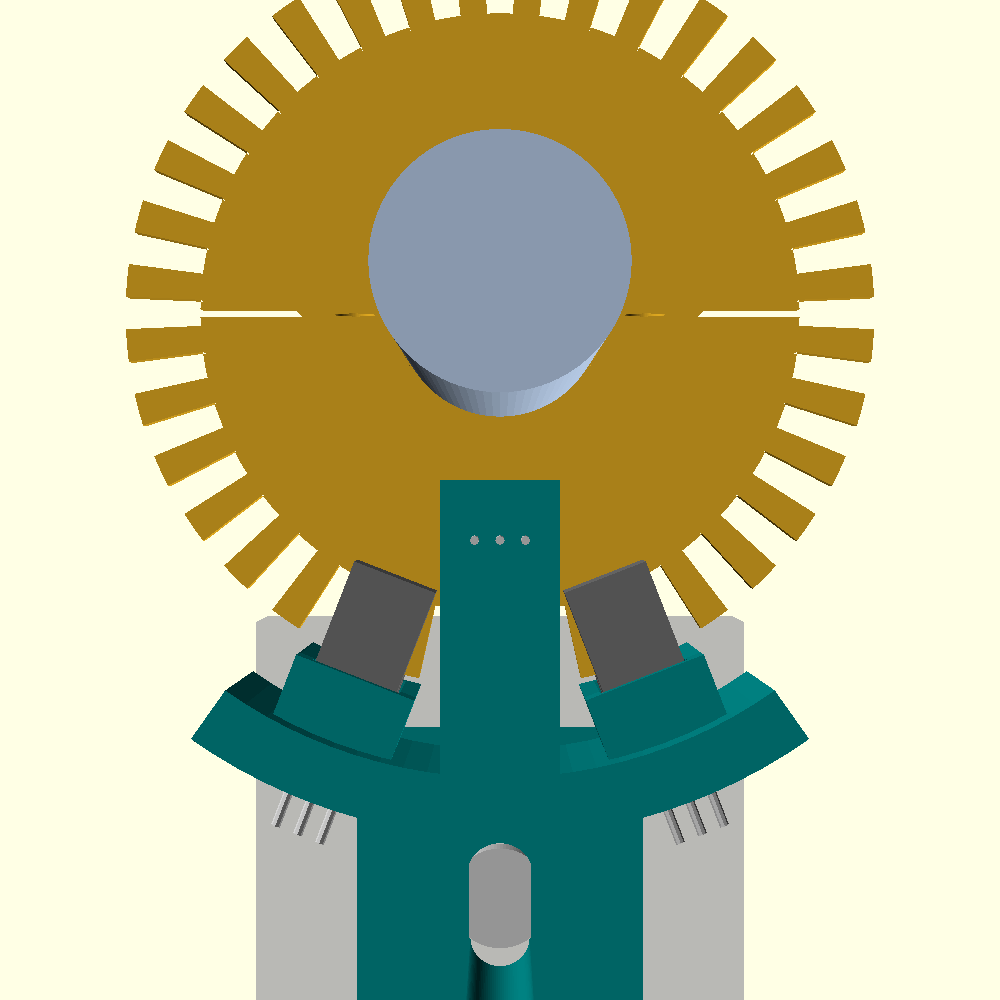
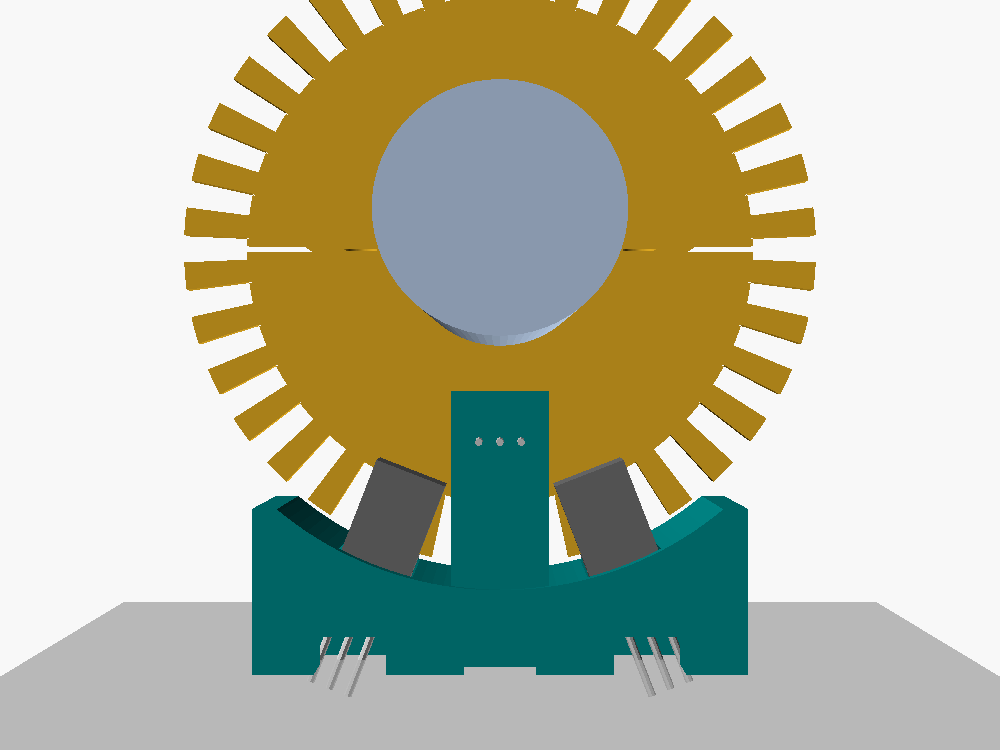
Encoder: replace the bracket with a saddle on the casting floor
The 158 has about 20 mm under the shaft and the ring's teeth come within
~6 mm of the floor, so nothing can hang below it. The new saddle part sits
on the floor: its top an arc 1 mm outside the tooth tips, the forks in
pockets with their bodies sunk in, a finger for the Hall switch, and lead
channels in the underside. Set by eye with the ring turning, then glued at
its edges (or taped: mount_gap). Height from axis_h (26.1 mm); ribs and
the spring cut out with keepouts once measured. Views regenerated.

Claude-Session: https://claude.ai/code/session_01D8rC2JDyb9T3n3ujD2pgX4

diff --git a/hardware/encoder/README.md b/hardware/encoder/README.md
@@ -11,11 +11,13 @@ the casting floor, measured with the gauge below and confirmed with
 calipers, which puts the axis about 26.1 mm up. The
 measurements behind it are about 5–10 mm of clear shaft at the candidate
 spots, with room for a ring of up to about 40 mm diameter (50 mm in places).
-`optical_encoder_concept.scad` models it. Its parts are `assembly`,
-`exploded`, and the two printed parts, `ring_half` and `bracket`.
+`optical_encoder_concept.scad` models it. Its parts are `assembly` and
+`exploded`, and the printed parts: `ring_half` and `ring_half_bottom`, the
+`insert_cradle` for pressing in the inserts, and the `saddle` that carries
+the forks.
 
-![In place: the slotted ring on the shaft, the two forks below it, the
-bracket and its anchor](enc_iso.png)
+![In place: the slotted ring on the shaft, and the two forks and the Hall
+switch in the saddle on the casting floor below it](enc_iso.png)
 
 ## How it works
 
@@ -38,26 +40,48 @@ both gives four counts per slot, **144 counts a turn, 2.5° each**. A
 
 **The index** comes from a Hall switch working alongside the optics, as Bob suggested, and it works well. One magnet
 sits in a small boss on the disc's face, inside the radius the forks reach,
-and a Hall switch on the bracket reads it once a turn from about a
+and a Hall switch on the saddle reads it once a turn from about a
 millimeter away. Mixing the two technologies has two advantages. The index
 doesn't depend on the optics staying clean. And because the index comes
 round once a turn, the firmware can check that the count is still 144
 since the last index. If it isn't, a fork is fouling or missing edges, and
 the controller can say so instead of stopping in the wrong place.
 
-**The bracket** is a printed arc that sits under the ring. Each fork drops
-into a pocket on the arc's inner face, with its leads passing out through
-the arc. A finger rises beside the disc to carry the Hall switch. An arm
-runs down to a tab with one screw and a vertical slot:
-- sliding the slot sets how deep the forks sit over the teeth;
-- turning the bracket about the screw trims its angle.
+**The saddle** is a low printed block that sits on the casting floor
+under the ring. Under the shaft of a Kenmore 158 there is only about 20 mm,
+and the ring's teeth come within about 6 mm of the floor, so there is no
+room for a bracket hanging from anything. The floor itself is the mount.
 
-The anchor in the model is a stand-in, a face of the casting square to the
-shaft with a tapped hole. On a real machine it would be whatever the casting
-offers.
+- **Its top is an arc** 1 mm outside the tooth tips. At the bottom it is
+  about 5 mm above the floor, and it rises to at most 10 mm at the sides.
+- **The forks sit in pockets** in that arc, at ±21.25° from straight down.
+  Their bodies are sunk in, and their arms stand up round the rim. Each
+  fork's leads go out through a hole under its body, bend toward one end,
+  and leave along a channel in the underside. The model reports the room
+  under the bodies for that bend, about 2.9 mm with the generic fork; it
+  calls it tight below 2 mm.
+- **A finger rises beside the disc** to carry the Hall switch about 1 mm
+  from the magnet, with its own lead groove and channel.
+- **Nothing is screwed.** The ring's position is set by the shaft, so only
+  the saddle's place on the floor needs setting, and that is done by eye.
+  Fit the ring through the forks, and turn it by hand. Slide the saddle
+  until the disc runs centred in both forks' slots all the way round. Then
+  fix the saddle with beads of hot glue or RTV along its edges, which peel
+  off later. Foam tape also works: set `mount_gap` to its thickness.
+- **Its height comes from the measurement.** `axis_h`, 26.1 mm, is the
+  shaft's axis above the floor (20 mm to the underside plus half the
+  shaft). If the forks sit too deep or too shallow over the teeth, change
+  it and reprint.
+- **Ribs and the spring are cut away** with `keepouts`, a list of boxes
+  measured from the floor. It is empty until the ribs and the spring are
+  measured.
+
+![The saddle in print orientation: underside on the bed, the fork pockets
+open upward, the Hall finger standing beside where the disc runs. The lead
+channels are in the underside.](enc_saddle.png)
 
 ![Looking along the shaft: the forks at ±21.25° below it, the Hall finger
-between them](enc_end.png)
+between them, the saddle on the floor](enc_end.png)
 
 ## Cleaning
 
@@ -67,8 +91,8 @@ reached. The ring comes off with two screws, and the forks lift out of
 their pockets. Nothing here holds oil. A wipe of the forks and ring can
 then join the regular oiling and cleaning.
 
-![Exploded: the two ring halves, the shaft, and the bracket with the forks
-and Hall switch](enc_exploded.png)
+![Exploded: the two ring halves, the shaft, and the saddle with the forks
+and Hall switch, above the floor](enc_exploded.png)
 
 ## What the concept does not settle
 
@@ -86,7 +110,7 @@ and Hall switch](enc_exploded.png)
   parts, is per machine.
 - **Runout and end play.** The disc must stay centered in a 3 mm slot
   through a full turn, and its teeth must stay over the apertures. Checking
-  the bracket's adjustment against the shaft's actual play is a job for the
+  the saddle's placement against the shaft's actual play is a job for the
   bench.
 - **Slot count.** 36 slots at 40 mm leaves teeth and slots about 1.6 mm
   wide at the apertures. More slots need a finer aperture, a larger ring,

diff --git a/TODO.md b/TODO.md
@@ -60,8 +60,10 @@ aren't forgotten.* Last gathered October 25, 2026.
 
 ## Design (with Claude)
 
-- [ ] A 158 version of the optical encoder, once measured: a low saddle on
-  the floor ribs, notched for the spring, with the forks in pockets.
+- [ ] A 158 version of the optical encoder: a low saddle on the floor,
+  notched for the ribs and the spring, with the forks in pockets. Drafted
+  as the `saddle` part (October 27); its `keepouts` await the rib and
+  spring measurements.
   - [ ] Assembly order: swivel the first ring half through the forks, then
         add the second and clamp.
   - [ ] Removable adhesive, on a degreased floor.
